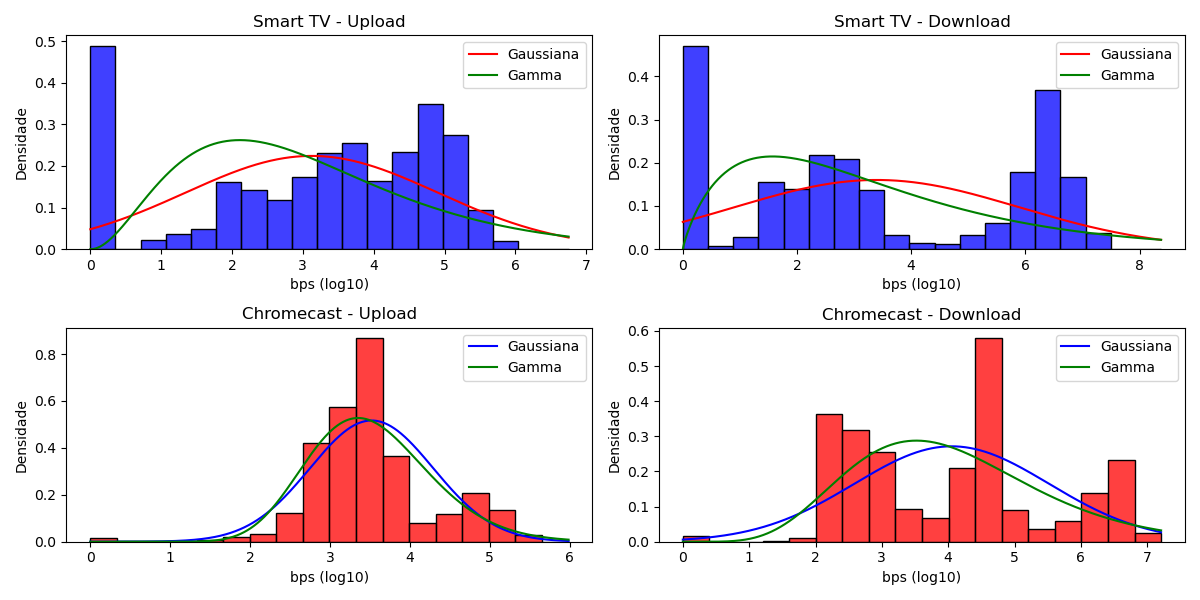
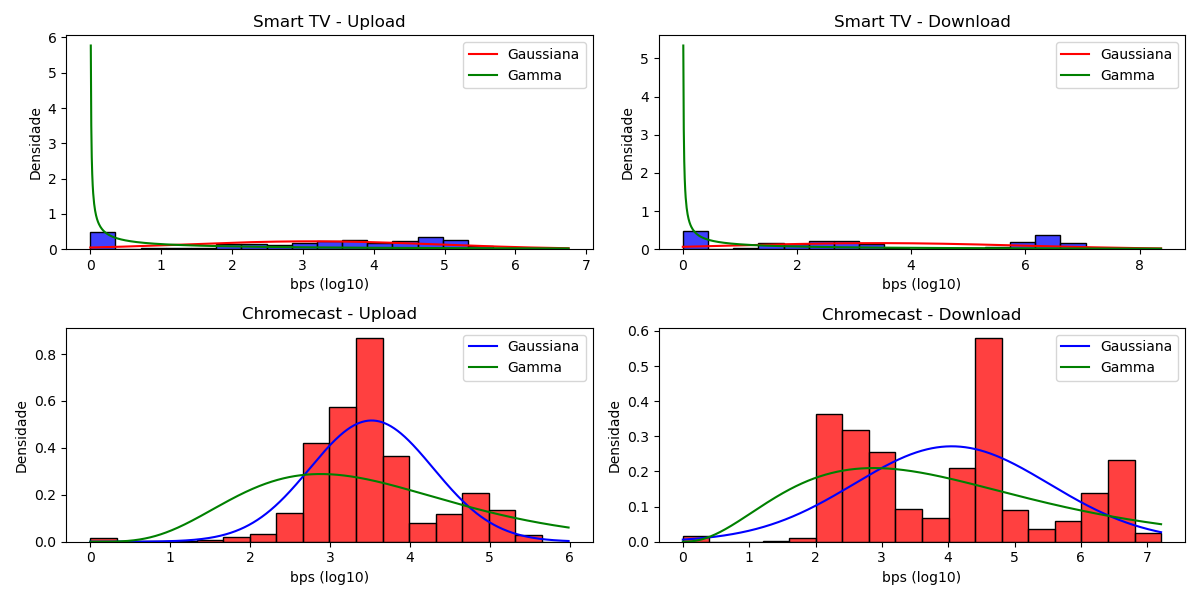
Caracterização feita até o passo 6

diff --git a/d_caracterizando_os_horarios.py b/d_caracterizando_os_horarios.py
@@ -1,6 +1,9 @@
 from a_preprocessamento import *
 from scipy import stats
-from sklearn.preprocessing import StandardScaler
+from scipy.special import digamma
+from scipy.optimize import newton
+from scipy.stats import gamma
+from scipy.stats import kstest
 import json
 
 # Criando datasets com a maior taxa de upload e download por dispositivo
@@ -89,13 +92,26 @@ def passo_2(df_smart_up, df_smart_down, df_chrome_up, df_chrome_down, salvar = F
 
 # Cálculo do MLE para distribuição Gaussiana e Gamma
 def MLE(data):
-    # Estimativa dos parâmetros da Gaussiana
+    # Estimativa da gaussiana
     media = np.mean(data)
     variancia = np.var(data)
 
-    # Estimativa dos parâmetros da Gamma
-    a = media**2 / variancia
-    b = variancia / media
+    # Verificar se data tem valores menores que zero
+    if (data < 0).any():
+        raise ValueError('Os dados contêm valores negativos. A distribuição Gamma não pode ser usada.')
+    
+    # Estimar parâmetros da gamma
+    epsilon = 1e-6
+    a, loc, scale = gamma.fit(data+epsilon, floc=0)
+    b = scale  # Em scipy, scale é equivalente a 'b'
+
+    # Teste de Kolmogorov-Smirnov para Gaussiana
+    ks_stat, p_value = kstest(data, 'norm', args=(media, np.sqrt(variancia)))
+    print(f"KS-Test Gaussiana: Estatística={ks_stat}, p-valor={p_value}")
+
+    # Teste de Kolmogorov-Smirnov para Gamma
+    ks_stat, p_value = kstest(data, 'gamma', args=(a, 0, b))
+    print(f"KS-Test Gamma: Estatística={ks_stat}, p-valor={p_value}")
     
     return media, variancia, a, b
 
@@ -141,32 +157,28 @@ def passo_3(df_smart_up, df_smart_down, df_chrome_up, df_chrome_down, salvar = F
 
     # Printar os resultados (parametros e likelihood)
     print('Smart TV - Download')
-    print('MLE Gaussiana:', parametros_smart_down)
-    print('MLE Gamma:', parametros_smart_down)
+    print('MLE:', parametros_smart_down)
     print('Log-likelihood Gaussiana:', log_likelihood_smart_down_gaussiana)
     print('Likelihood Gaussiana:', likelihood_smart_down_gaussiana)
     print('Log-likelihood Gamma:', log_likelihood_smart_down_gamma)
     print('Likelihood Gamma:', likelihood_smart_down_gamma)
     print()
     print('Smart TV - Upload')
-    print('MLE Gaussiana:', parametros_smart_up)
-    print('MLE Gamma:', parametros_smart_up)
+    print('MLE:', parametros_smart_up)
     print('Log-likelihood Gaussiana:', log_likelihood_smart_up_gaussiana)
     print('Likelihood Gaussiana:', likelihood_smart_up_gaussiana)
     print('Log-likelihood Gamma:', log_likelihood_smart_up_gamma)
     print('Likelihood Gamma:', likelihood_smart_up_gamma)
     print()
     print('Chromecast - Download')
-    print('MLE Gaussiana:', parametros_chrome_down)
-    print('MLE Gamma:', parametros_chrome_down)
+    print('MLE:', parametros_chrome_down)
     print('Log-likelihood Gaussiana:', log_likelihood_chrome_down_gaussiana)
     print('Likelihood Gaussiana:', likelihood_chrome_down_gaussiana)
     print('Log-likelihood Gamma:', log_likelihood_chrome_down_gamma)
     print('Likelihood Gamma:', likelihood_chrome_down_gamma)
     print()
     print('Chromecast - Upload')
-    print('MLE Gaussiana:', parametros_chrome_up)
-    print('MLE Gamma:', parametros_chrome_up)
+    print('MLE:', parametros_chrome_up)
     print('Log-likelihood Gaussiana:', log_likelihood_chrome_up_gaussiana)
     print('Likelihood Gaussiana:', likelihood_chrome_up_gaussiana)
     print('Log-likelihood Gamma:', log_likelihood_chrome_up_gamma)
@@ -176,32 +188,28 @@ def passo_3(df_smart_up, df_smart_down, df_chrome_up, df_chrome_down, salvar = F
     if salvar:
         data = {
             "Smart TV - Download": {
-                "MLE Gaussiana": parametros_smart_down,
-                "MLE Gamma": parametros_smart_down,
+                "MLE": parametros_smart_down,
                 "Log-likelihood Gaussiana": log_likelihood_smart_down_gaussiana,
                 "Likelihood Gaussiana": likelihood_smart_down_gaussiana,
                 "Log-likelihood Gamma": log_likelihood_smart_down_gamma,
                 "Likelihood Gamma": likelihood_smart_down_gamma
             },
             "Smart TV - Upload": {
-                "MLE Gaussiana": parametros_smart_up,
-                "MLE Gamma": parametros_smart_up,
+                "MLE": parametros_smart_up,
                 "Log-likelihood Gaussiana": log_likelihood_smart_up_gaussiana,
                 "Likelihood Gaussiana": likelihood_smart_up_gaussiana,
                 "Log-likelihood Gamma": log_likelihood_smart_up_gamma,
                 "Likelihood Gamma": likelihood_smart_up_gamma
             },
             "Chromecast - Download": {
-                "MLE Gaussiana": parametros_chrome_down,
-                "MLE Gamma": parametros_chrome_down,
+                "MLE": parametros_chrome_down,
                 "Log-likelihood Gaussiana": log_likelihood_chrome_down_gaussiana,
                 "Likelihood Gaussiana": likelihood_chrome_down_gaussiana,
                 "Log-likelihood Gamma": log_likelihood_chrome_down_gamma,
                 "Likelihood Gamma": likelihood_chrome_down_gamma
             },
             "Chromecast - Upload": {
-                "MLE Gaussiana": parametros_chrome_up,
-                "MLE Gamma": parametros_chrome_up,
+                "MLE": parametros_chrome_up,
                 "Log-likelihood Gaussiana": log_likelihood_chrome_up_gaussiana,
                 "Likelihood Gaussiana": likelihood_chrome_up_gaussiana,
                 "Log-likelihood Gamma": log_likelihood_chrome_up_gamma,
@@ -218,10 +226,10 @@ def passo_4(df_smart_up, df_smart_down, df_chrome_up, df_chrome_down, file = "es
     # Carregar os resultados do MLE
     with open(file, 'r', encoding='utf-8') as f:
         data = json.load(f)
-        parametros_smart_down = data['Smart TV - Download']['MLE Gaussiana']
-        parametros_smart_up = data['Smart TV - Upload']['MLE Gaussiana']
-        parametros_chrome_down = data['Chromecast - Download']['MLE Gaussiana']
-        parametros_chrome_up = data['Chromecast - Upload']['MLE Gaussiana']
+        parametros_smart_down = data['Smart TV - Download']['MLE']
+        parametros_smart_up = data['Smart TV - Upload']['MLE']
+        parametros_chrome_down = data['Chromecast - Download']['MLE']
+        parametros_chrome_up = data['Chromecast - Upload']['MLE']
 
     # Calculo do número de bins pelo método de Sturges: k = 1 + log2(n)
     n_smart_up = len(df_smart_up)
@@ -359,10 +367,10 @@ def passo_5(df_smart_up, df_smart_down, df_chrome_up, df_chrome_down, file = "es
     # Carregar os resultados do MLE
     with open(file, 'r', encoding='utf-8') as f:
         data = json.load(f)
-        parametros_smart_down = data['Smart TV - Download']['MLE Gaussiana']
-        parametros_smart_up = data['Smart TV - Upload']['MLE Gaussiana']
-        parametros_chrome_down = data['Chromecast - Download']['MLE Gaussiana']
-        parametros_chrome_up = data['Chromecast - Upload']['MLE Gaussiana']
+        parametros_smart_down = data['Smart TV - Download']['MLE']
+        parametros_smart_up = data['Smart TV - Upload']['MLE']
+        parametros_chrome_down = data['Chromecast - Download']['MLE']
+        parametros_chrome_up = data['Chromecast - Upload']['MLE']
 
     # plot da distribuição gaussiana
     plt.figure(figsize=(12, 6))
@@ -402,6 +410,51 @@ def passo_5(df_smart_up, df_smart_down, df_chrome_up, df_chrome_down, file = "es
         plt.savefig('caracterizando_os_horarios/probplot_gamma.png')
     plt.show()
 
+# Q Q plot comparando os datasets 1 e 3, e os datasets 2 e 4
+def passo_6(df_smart_up, df_smart_down, df_chrome_up, df_chrome_down, salvar=False):
+    # Ordenar os dados
+    smart_up_sorted = np.sort(df_smart_up['bytes_up'])
+    chrome_up_sorted = np.sort(df_chrome_up['bytes_up'])
+    smart_down_sorted = np.sort(df_smart_down['bytes_down'])
+    chrome_down_sorted = np.sort(df_chrome_down['bytes_down'])
+
+    # Quantis para os conjuntos menores
+    quantis_smart_up = np.linspace(0, 1, len(smart_up_sorted))
+    quantis_chrome_up = np.linspace(0, 1, len(chrome_up_sorted))
+    quantis_smart_down = np.linspace(0, 1, len(smart_down_sorted))
+    quantis_chrome_down = np.linspace(0, 1, len(chrome_down_sorted))
+
+    # Interpolação linear para alinhar os conjuntos
+    chrome_up_interp = np.interp(quantis_smart_up, quantis_chrome_up, chrome_up_sorted)
+    chrome_down_interp = np.interp(quantis_smart_down, quantis_chrome_down, chrome_down_sorted)
+
+    # Plot do QQ Plot para upload
+    plt.figure(figsize=(10, 5))
+    plt.subplot(1, 2, 1)
+    plt.scatter(smart_up_sorted, chrome_up_interp, alpha=0.6)
+    plt.plot([smart_up_sorted.min(), smart_up_sorted.max()], [smart_up_sorted.min(), smart_up_sorted.max()], 'r--')
+    plt.title("QQ Plot: Smart TV Upload vs. Chromecast Upload")
+    plt.xlabel("Smart TV Upload Quantiles")
+    plt.ylabel("Chromecast Upload Quantiles")
+    plt.grid(True)
+
+    # Plot do QQ Plot para download
+    plt.subplot(1, 2, 2)
+    plt.scatter(smart_down_sorted, chrome_down_interp, alpha=0.6)
+    plt.plot([smart_down_sorted.min(), smart_down_sorted.max()], [smart_down_sorted.min(), smart_down_sorted.max()], 'r--')
+    plt.title("QQ Plot: Smart TV Download vs. Chromecast Download")
+    plt.xlabel("Smart TV Download Quantiles")
+    plt.ylabel("Chromecast Download Quantiles")
+    plt.grid(True)
+
+    plt.tight_layout()
+    if salvar:
+        plt.savefig('caracterizando_os_horarios/qq_plot.png')
+    plt.show()
+
+
+
+
 if __name__ == '__main__':
     # # passo 1: criar datasets com a maior taxa de upload e download por dispositivo
     # df1, df2 = preprocessamento()
@@ -423,6 +476,9 @@ if __name__ == '__main__':
     # # passo 4: plotar histograma, pdf gaussiana e pdf gamma na mesma figura
     # passo_4(dataset_1, dataset_2, dataset_3, dataset_4, file = "caracterizando_os_horarios/estatisticas_mle.json", salvar = True)
 
-    # passo 5: probability plot para cada distribuição usando os parametros do MLE
-    passo_5(dataset_1, dataset_2, dataset_3, dataset_4, file = "caracterizando_os_horarios/estatisticas_mle.json", salvar = True)
+    # # passo 5: probability plot para cada distribuição usando os parametros do MLE
+    # passo_5(dataset_1, dataset_2, dataset_3, dataset_4, file = "caracterizando_os_horarios/estatisticas_mle.json", salvar = True)
+
+    # # passo 6: Q Q plot comparando os datasets 1 e 3, e os datasets 2 e 4
+    passo_6(dataset_1, dataset_2, dataset_3, dataset_4, salvar=True)
 
